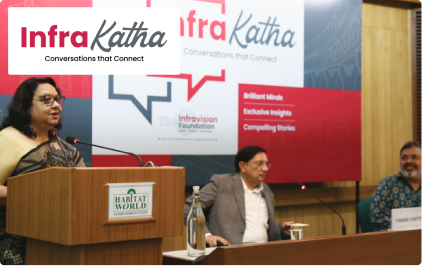
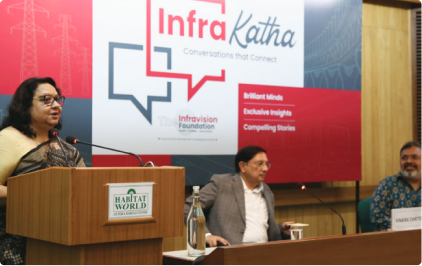
fix: tabs

Changed region(s): [[0.0, 0.0, 0.4313, 0.3008]]

diff --git a/src/app/knowledge/02_researchPapers.tsx b/src/app/knowledge/02_researchPapers.tsx
@@ -1,5 +1,5 @@
 "use client";
-import { useEffect, useState, useMemo } from "react";
+import { useEffect, useState, useMemo, useRef } from "react";
 
 import img_01 from "@/../public/assets/knowledeg/researchPapers/01.jpg";
 import img_02 from "@/../public/assets/knowledeg/researchPapers/02.jpg";
@@ -127,9 +127,24 @@ const allcards = [
 ];
 
 export default function ResearchPapers() {
+  const tabRefs = useRef<Array<HTMLButtonElement | null>>([]);
+  const containerRef = useRef<HTMLDivElement>(null);
   const [selectedTab, setSelectedTab] = useState<FilterType>("All");
   const [selectedFilter, setSelectedFilter] = useState<string>("All");
   const [visibleCount, setVisibleCount] = useState(INITIAL_VISIBLE_COUNT);
+
+  const scrollToCenter = (index: number) => {
+    const tab = tabRefs.current[index];
+    const container = containerRef.current;
+
+    if (tab && container) {
+      // const containerRect = container.getBoundingClientRect();
+      // const tabRect = tab.getBoundingClientRect();
+      const offset =
+        tab.offsetLeft - container.offsetWidth / 2 + tab.offsetWidth / 2;
+      container.scrollTo({ left: offset, behavior: 'smooth' });
+    }
+  };
 
   const handleTabClick = (tab: FilterType) => {
     setSelectedTab(tab);
@@ -137,14 +152,15 @@ export default function ResearchPapers() {
       tab === "Publication Year"
         ? YEARS[0]
         : tab === "sectors"
-        ? SECTORS[0]
-        : "All"
+          ? SECTORS[0]
+          : "All"
     );
     setVisibleCount(INITIAL_VISIBLE_COUNT);
   };
 
-  const handleFilterClick = (filterName: string) => {
+  const handleFilterClick = (filterName: string, index: number) => {
     setSelectedFilter(filterName);
+    scrollToCenter(index);
   };
 
   const filteredCards = useMemo(() => {
@@ -164,18 +180,21 @@ export default function ResearchPapers() {
   };
 
   const renderFilterButtons = (filters: readonly string[]) => (
-    <div className="pt-5">
-      <div className="flex flex-wrap gap-3">
-        {filters.map((filter) => (
+    <div ref={containerRef} className="pt-5 overflow-scroll no-scrollbar">
+      <div className="flex  gap-3 ">
+
+        {filters.map((filter, index) => (
           <button
             key={filter}
-            className={`text-base cursor-pointer rounded-[50px] px-3 py-1 sm:px-6 sm:py-3
-                            ${
-                              selectedFilter === filter
-                                ? "border border-pink text-white bg-pink font-medium"
-                                : "border border-lightgray/30"
-                            }`}
-            onClick={() => handleFilterClick(filter)}
+            ref={(el: HTMLButtonElement | null) => {
+              tabRefs.current[index] = el;
+            }}
+            className={`text-base text-nowrap cursor-pointer rounded-[50px] px-3 py-1 sm:px-6 sm:py-3
+                            ${selectedFilter === filter
+                ? "border border-pink text-white bg-pink font-medium"
+                : "border border-lightgray/30"
+              }`}
+            onClick={() => handleFilterClick(filter, index)}
           >
             {filter}
           </button>
@@ -217,11 +236,10 @@ export default function ResearchPapers() {
                 <button
                   key={tab}
                   className={`mt-auto text-base cursor-pointer rounded-[50px] px-4 py-2 mb-3 sm:px-6 sm:py-3 sm:mb-4
-                                        ${
-                                          selectedTab === tab
-                                            ? "border border-pink text-pink font-medium"
-                                            : "border border-lightgray/30"
-                                        }`}
+                                        ${selectedTab === tab
+                      ? "border border-pink text-pink font-medium"
+                      : "border border-lightgray/30"
+                    }`}
                   onClick={() => handleTabClick(tab)}
                 >
                   {tab}
@@ -236,11 +254,14 @@ export default function ResearchPapers() {
 
           {/* Newsletter Cards */}
           <div
-            className={`${
-              selectedTab === "Publication Year" ? "pt-8" : "pt-8"
-            }`}
+            className={`${selectedTab === "Publication Year" ? "pt-8" : "pt-8"
+              }`}
           >
+            {
+              filteredCards.length === 0 && <div className="flex justify-center"> No results </div>
+            }
             <div className="grid grid-cols-1 sm:grid-cols-2 xl:grid-cols-3 gap-5 sm:gap-10 xl:gap-16 xlg:gap-24">
+
               {filteredCards.slice(0, visibleCount).map((card) => (
                 <div key={card.id}>
                   <NewsCard

diff --git a/src/_components/molecules/tabs.tsx b/src/_components/molecules/tabs.tsx
@@ -1,7 +1,8 @@
 "use client";
-import { useState, useEffect } from "react";
+import { useState, useEffect, useRef } from "react";
 import clsx from "clsx";
 import { useSelector } from 'react-redux';
+import { useHeader } from "@/context/useHeader";
 
 
 type TabId = string;
@@ -13,14 +14,31 @@ type Props = {
   sectionRefs: Record<TabId, React.RefObject<HTMLDivElement | null>>;
 };
 
-export default function OutreachTabs({ sectionRefs,tabs }: Props) {
+export default function OutreachTabs({ sectionRefs, tabs }: Props) {
+  const tabRefs = useRef<Array<HTMLButtonElement | null>>([]);
+  const containerRef = useRef<HTMLDivElement>(null);
   const [activeTab, setActiveTab] = useState<TabId>("highlight");
   const [isStickyVisible, setStickyVisible] = useState(true);
-
-  const handleTabClick = (id: TabId) => {
+  const { isHeaderVisible } = useHeader()
+  const handleTabClick = (id: TabId, index: number) => {
     sectionRefs[id]?.current?.scrollIntoView({ behavior: "smooth" });
     setActiveTab(id);
+    scrollToCenter(index);
   };
+
+  const scrollToCenter = (index: number) => {
+    const tab = tabRefs.current[index];
+    const container = containerRef.current;
+
+    if (tab && container) {
+      // const containerRect = container.getBoundingClientRect();
+      // const tabRect = tab.getBoundingClientRect();
+      const offset =
+        tab.offsetLeft - container.offsetWidth / 2 + tab.offsetWidth / 2;
+      container.scrollTo({ left: offset, behavior: 'smooth' });
+    }
+  };
+
 
   useEffect(() => {
     const observer = new IntersectionObserver(
@@ -42,13 +60,13 @@ export default function OutreachTabs({ sectionRefs,tabs }: Props) {
         // Sort by most visible section
         visibilityMap.sort((a, b) => b.ratio - a.ratio);
 
-      
+
         if (visibilityMap.length > 0 && visibilityMap[0].ratio > 0) {
           const topVisible = visibilityMap[0].id;
           if (topVisible !== activeTab) {
             setActiveTab(topVisible);
           }
-          setStickyVisible(true); 
+          setStickyVisible(true);
         } else {
           setStickyVisible(false)
         }
@@ -71,22 +89,27 @@ export default function OutreachTabs({ sectionRefs,tabs }: Props) {
 
   return (
     <div
+      ref={containerRef}
       className={clsx(
-        "border-b border-darkgray/16 ",
+        "border-b overflow-hidden w-container  border-darkgray/16 transition-all duration-200 ease-linear",
         "bg-white",
         "z-50",
         "sticky",
         "top-0",
-        isStickyVisible ? "block" : "hidden"
+        isStickyVisible ? "block" : "hidden",
+        isHeaderVisible ? "sticky top-20 xl:top-24" : "top-0"
       )}
     >
-      <div className="flex gap-5 w-container sm:gap-20 md:pt-8  justify-start  sticky top-0 z-40">
-        {tabs.map((tab) => (
+      <div className="flex gap-5  sm:gap-20 md:pt-8  justify-start    z-40  w-fit ">
+        {tabs.map((tab, index) => (
           <button
             key={tab.id}
-            onClick={() => handleTabClick(tab.id)}
+            ref={(el: HTMLButtonElement | null) => {
+              tabRefs.current[index] = el;
+            }}
+            onClick={() => handleTabClick(tab.id, index)}
             className={clsx(
-              "py-4 text-sm md:text-lg cursor-pointer  text-darkgray border-b-2 transition-all",
+              "py-4 text-nowrap text-sm md:text-lg cursor-pointer  text-darkgray border-b-2 transition-all",
               activeTab === tab.id
                 ? "text-pink border-pink font-medium"
                 : "border-transparent"

diff --git a/src/app/knowledge/04_blogs.tsx b/src/app/knowledge/04_blogs.tsx
@@ -1,5 +1,5 @@
 "use client";
-import { useEffect, useState, useMemo } from "react";
+import { useEffect, useState, useMemo, useRef } from "react";
 
 import img_01 from "@/../public/assets/knowledeg/blogs/01.jpg";
 import img_02 from "@/../public/assets/knowledeg/blogs/02.jpg";
@@ -81,9 +81,24 @@ const allcards = [
 ];
 
 export default function Blogs() {
+  const tabRefs = useRef<Array<HTMLButtonElement | null>>([]);
+  const containerRef = useRef<HTMLDivElement>(null);
   const [selectedTab, setSelectedTab] = useState<FilterType>("All");
   const [selectedFilter, setSelectedFilter] = useState<string>("All");
   const [visibleCount, setVisibleCount] = useState(INITIAL_VISIBLE_COUNT);
+
+  const scrollToCenter = (index: number) => {
+    const tab = tabRefs.current[index];
+    const container = containerRef.current;
+
+    if (tab && container) {
+      // const containerRect = container.getBoundingClientRect();
+      // const tabRect = tab.getBoundingClientRect();
+      const offset =
+        tab.offsetLeft - container.offsetWidth / 2 + tab.offsetWidth / 2;
+      container.scrollTo({ left: offset, behavior: 'smooth' });
+    }
+  };
 
   const handleTabClick = (tab: FilterType) => {
     setSelectedTab(tab);
@@ -97,8 +112,9 @@ export default function Blogs() {
     setVisibleCount(INITIAL_VISIBLE_COUNT);
   };
 
-  const handleFilterClick = (filterName: string) => {
+  const handleFilterClick = (filterName: string, index: number) => {
     setSelectedFilter(filterName);
+    scrollToCenter(index);
   };
 
   const filteredCards = useMemo(() => {
@@ -118,17 +134,20 @@ export default function Blogs() {
   };
 
   const renderFilterButtons = (filters: readonly string[]) => (
-    <div className="pt-5">
-      <div className="flex flex-wrap gap-3">
-        {filters.map((filter) => (
+    <div ref={containerRef} className="pt-5 overflow-scroll no-scrollbar">
+      <div className="flex   gap-3">
+        {filters.map((filter, index) => (
           <button
             key={filter}
-            className={`text-base cursor-pointer rounded-[50px] px-3 py-1 sm:px-6 sm:py-3
+            ref={(el: HTMLButtonElement | null) => {
+              tabRefs.current[index] = el;
+            }}
+            className={`text-base text-nowrap cursor-pointer rounded-[50px] px-3 py-1 sm:px-6 sm:py-3
                             ${selectedFilter === filter
                 ? "border border-pink text-white bg-pink font-medium"
                 : "border border-lightgray/30"
               }`}
-            onClick={() => handleFilterClick(filter)}
+            onClick={() => handleFilterClick(filter, index)}
           >
             {filter}
           </button>
@@ -192,6 +211,9 @@ export default function Blogs() {
             className={`${selectedTab === "Publication Year" ? "pt-8" : "pt-8"
               }`}
           >
+            {
+              filteredCards.length === 0 && <div className="flex justify-center"> No results </div>
+            }
             <div className="grid grid-cols-1 sm:grid-cols-2 xl:grid-cols-3 gap-5 sm:gap-10 xl:gap-16 xlg:gap-24">
               {filteredCards.slice(0, visibleCount).map((card) => (
                 <div key={card.id}>

diff --git a/src/app/knowledge/03_conversations.tsx b/src/app/knowledge/03_conversations.tsx
@@ -180,7 +180,7 @@ export default function Conversations() {
             spaceBetween={30}
             slidesPerView={1}
             breakpoints={{
-              360: { slidesPerView: 1.1 },
+              360: { slidesPerView: 1.07 },
               540: { slidesPerView: 1.2 },
               768: { slidesPerView: 2.1 },
               1024: { slidesPerView: 2.3 },
@@ -191,7 +191,7 @@ export default function Conversations() {
             {people.map((person, idx) => (
               <SwiperSlide key={idx}>
                 <div className="    overflow-hidden flex flex-col h-full">
-                  <div className="relative w-full h-[24rem] rounded-xl overflow-hidden">
+                  <div className="relative w-full h-[20rem] sm:h-[24rem] rounded-xl overflow-hidden">
                     <Image
                       src={person.image}
                       alt={person.name}
@@ -220,7 +220,7 @@ export default function Conversations() {
                       {/* Text overlay */}
                       <div className="  bg-white rounded px-4 py-3 shadow z-20">
                         <p className="font-medium text-black">{person.name}</p>
-                        <p className="text-sm text-drakgray">{person.title}</p>
+                        <p className="text-sm text-drakgray leading-4 xl:leading-5">{person.title}</p>
                       </div>
                     </div>
                   </div>
@@ -237,18 +237,16 @@ export default function Conversations() {
           <div className="flex items-center justify-between mt-6">
             <div className="flex gap-3">
               <button
-                className={`swiper-conv-prev-btn cursor-pointer flex sm:h-10 sm:w-10 h-8 w-8 items-center justify-center rounded-full bg-pink text-xl text-white transition-opacity duration-200 ${
-                  isBeginning ? "opacity-50 cursor-not-allowed" : "opacity-100"
-                }`}
+                className={`swiper-conv-prev-btn cursor-pointer flex sm:h-10 sm:w-10 h-8 w-8 items-center justify-center rounded-full bg-pink text-xl text-white transition-opacity duration-200 ${isBeginning ? "opacity-50 cursor-not-allowed" : "opacity-100"
+                  }`}
                 aria-label="Previous slide"
                 disabled={isBeginning}
               >
                 <GoArrowLeft />
               </button>
               <button
-                className={`swiper-conv-next-btn cursor-pointer flex sm:h-10 sm:w-10 h-8 w-8 items-center justify-center rounded-full bg-pink text-white transition-opacity duration-200 ${
-                  isEnd ? "opacity-50 cursor-not-allowed" : "opacity-100"
-                }`}
+                className={`swiper-conv-next-btn cursor-pointer flex sm:h-10 sm:w-10 h-8 w-8 items-center justify-center rounded-full bg-pink text-white transition-opacity duration-200 ${isEnd ? "opacity-50 cursor-not-allowed" : "opacity-100"
+                  }`}
                 aria-label="Next slide"
                 disabled={isEnd}
               >

diff --git a/src/app/_home/02_whoWeAre.tsx b/src/app/_home/02_whoWeAre.tsx
@@ -2,9 +2,11 @@
 import rail from "@/../public/assets/home/whoWeAre/knowledge/rail.png";
 import highway from "@/../public/assets/home/whoWeAre/knowledge/highway.png";
 import rajivRanjan from "@/../public/assets/home/whoWeAre/knowledge/rajivRanjan.png";
-import infraKatha from "@/../public/assets/home/whoWeAre/advocacy/infraKatha.png";
+// import infraKatha from "@/../public/assets/home/whoWeAre/advocacy/infraKatha.png";
+import infraKatha from "@/../public/assets/infrakatha/banner/banner.jpg";
 import infraShakti from "@/../public/assets/home/whoWeAre/advocacy/infraPandit.png";
-import infraPandit from "@/../public/assets/home/whoWeAre/advocacy/infraShakti.png";
+// import infraPandit from "@/../public/assets/home/whoWeAre/advocacy/infraShakti.png";
+import infraPandit from "@/../public/assets/infrapandit/bannerBg.png";
 import { useState } from "react";
 import Card from "@/_components/molecules/cardTemplate";
 import { useHeader } from "@/context/useHeader";
@@ -72,10 +74,10 @@ const advocacy = [
   {
     id: 3,
     img: infraPandit.src,
-    category: "InfraPandit",
+    category: "InfraPandit Awards",
     title:
       "Another flagship initiative recognising outstanding doctoral research on infrastructure, fostering youth participation in India's infra evolution",
-    link: "",
+    link: "/infrapandit-awards",
   },
 ];
 
